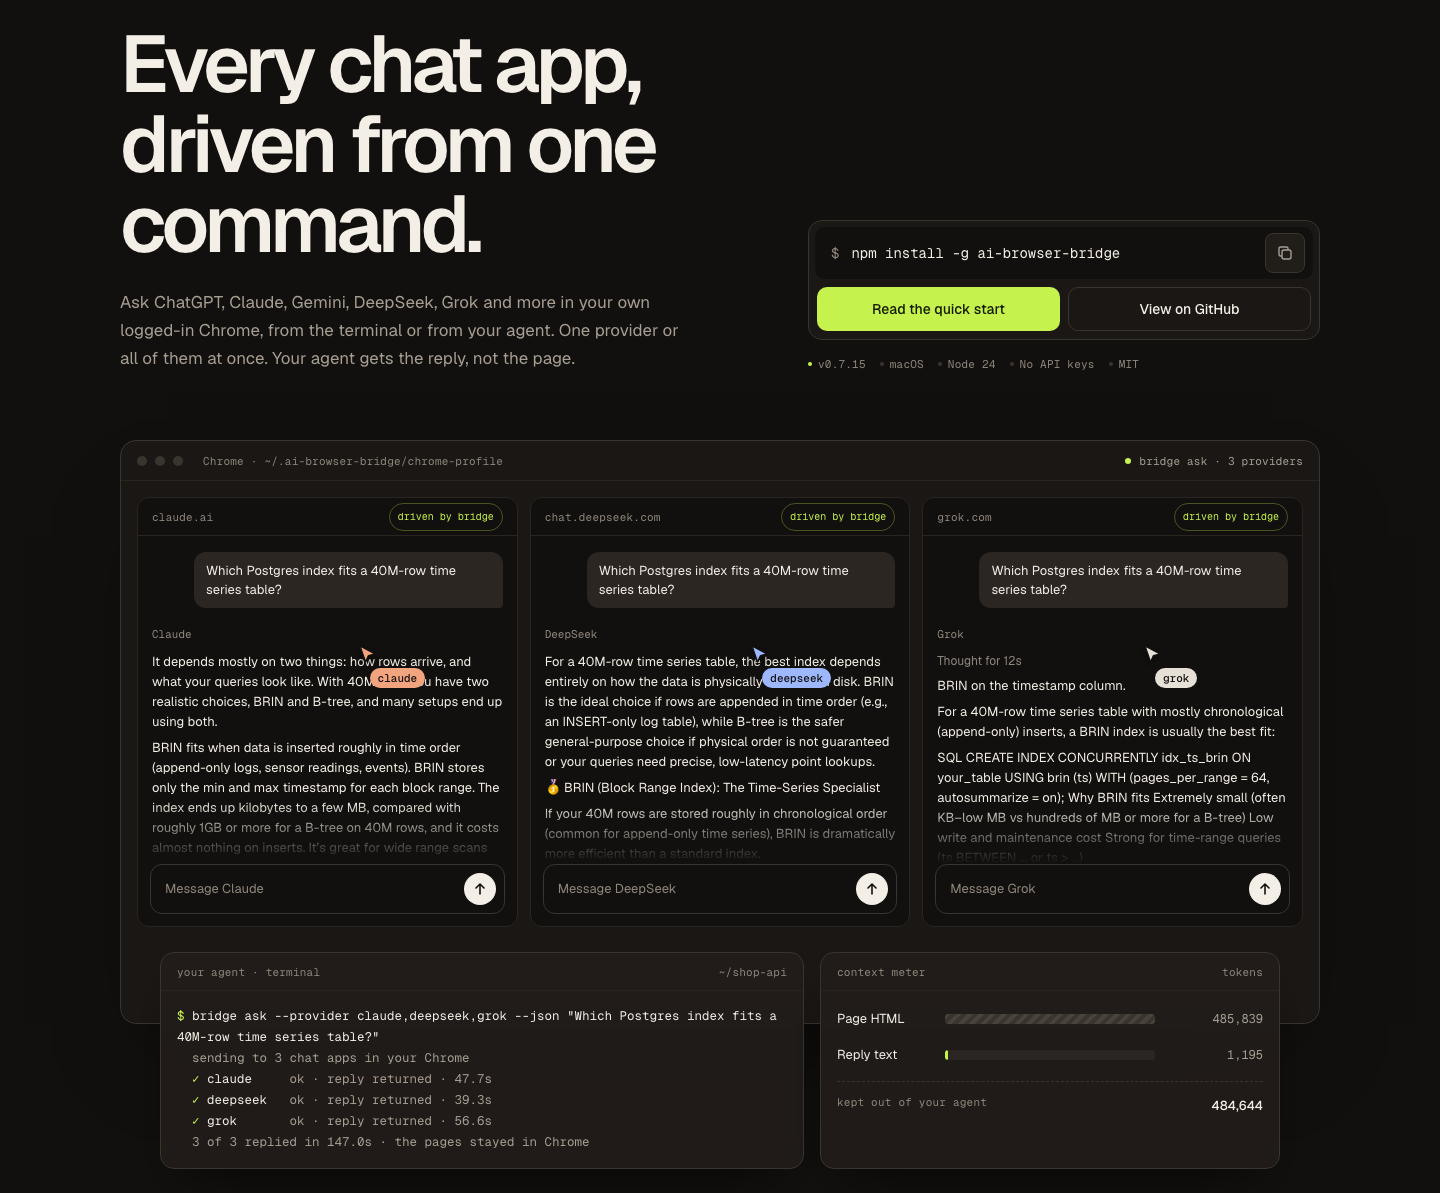
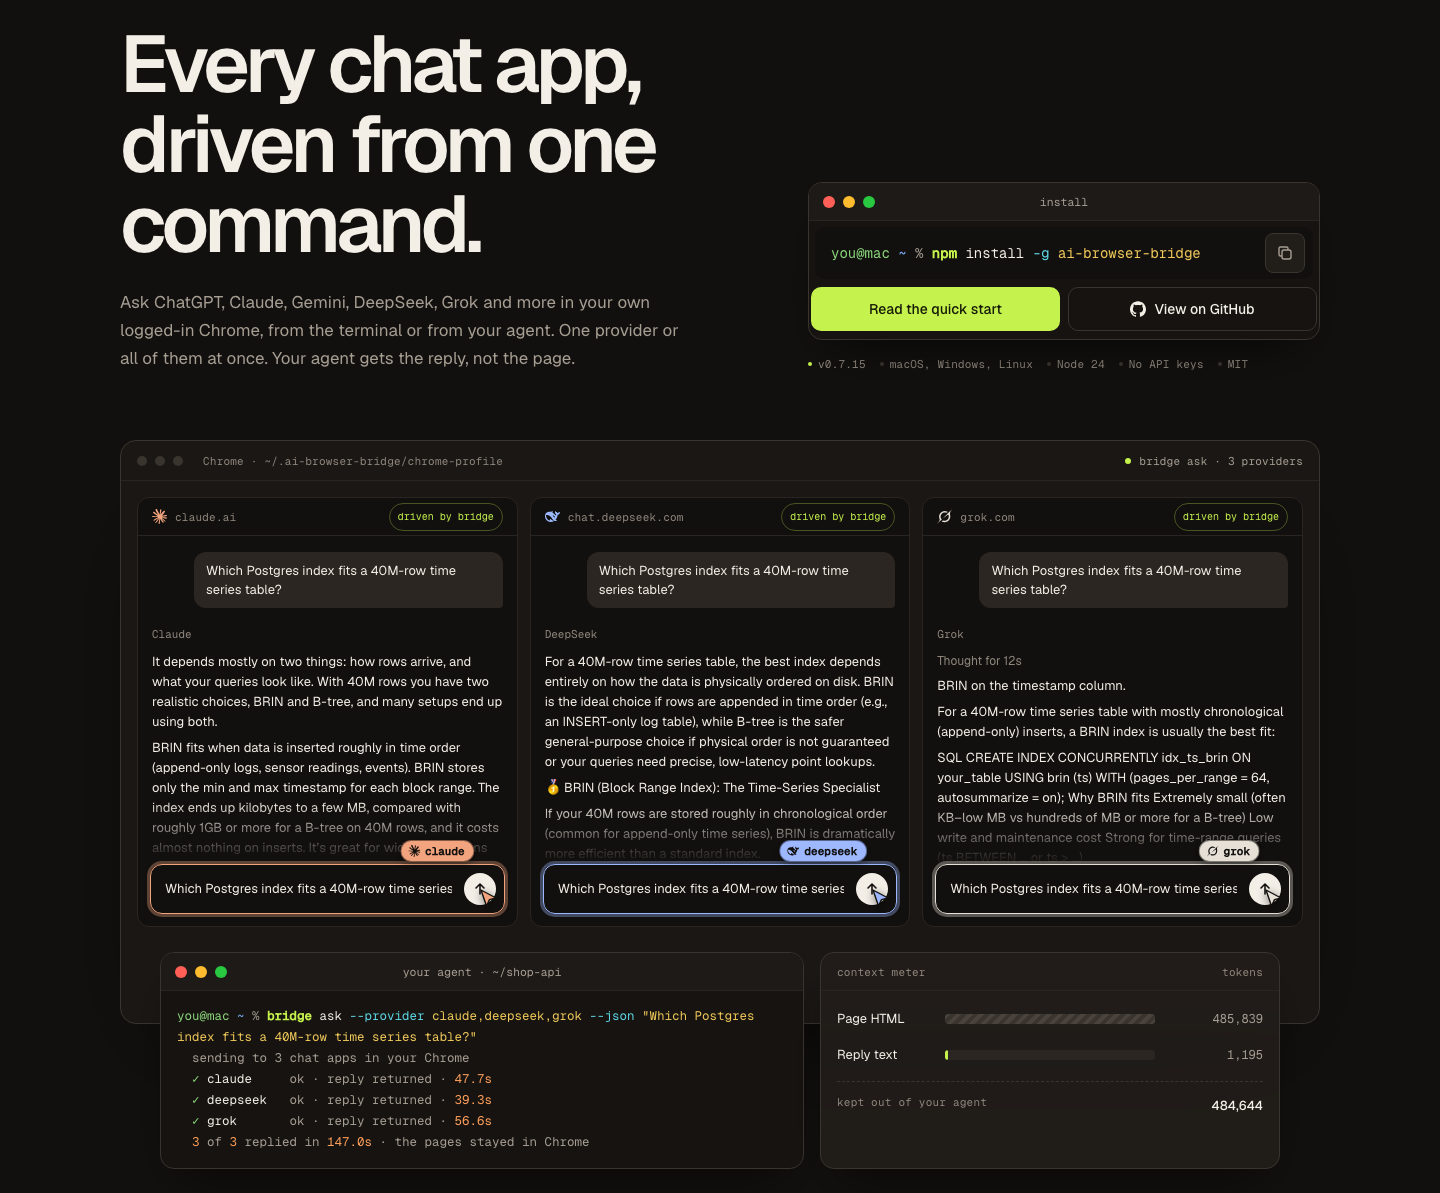
docs: say the CLI runs on macOS, Windows and Linux

diff --git a/site/landing/faq-list.tsx b/site/landing/faq-list.tsx
@@ -6,21 +6,21 @@ const QUESTIONS = [
   },
   {
     question: "What does it run on?",
-    answer: "macOS today, with Node 24 or newer and Google Chrome.",
+    answer: "macOS, Windows and Linux, with Node 24.11 or newer and Google Chrome.",
   },
   {
     question: "What if a chat app changes its page?",
     answer: "Each provider keeps its selectors in one browser layer, so a fix stays in one place.",
   },
   {
-    question: "Can a chat app run commands on my Mac?",
+    question: "Can a chat app run commands on my computer?",
     answer:
       "No. There is no shell. Repo tools are a fixed set, checked and kept inside the repo, under the permission mode you pick.",
   },
   {
     question: "Where is my data kept?",
     answer:
-      "On your Mac. The Chrome profile lives in ~/.ai-browser-bridge/chrome-profile and repo state in .bridge/ inside the repo.",
+      "On your computer. The Chrome profile lives in ~/.ai-browser-bridge/chrome-profile and repo state in .bridge/ inside the repo.",
   },
 ];
 

diff --git a/site/docs/usage-page.tsx b/site/docs/usage-page.tsx
@@ -59,11 +59,13 @@ export const UsagePage = ({ siteData }: UsagePageProps) => (
     <DocsSection title="Prerequisites">
       <ul>
         <li>
-          <strong>macOS</strong>: Chrome is launched with the macOS <code>open</code> command, and
-          clipboard/process helpers use <code>pbcopy</code>/<code>lsof</code>.
+          <strong>macOS, Windows or Linux</strong>. The bridge finds Chrome in the usual install
+          places; set <code>AI_BROWSER_BRIDGE_CHROME_PATH</code> to point it somewhere else. On
+          Linux, <code>/export</code> copies with <code>wl-copy</code>, <code>xclip</code> or{" "}
+          <code>xsel</code>, so install one of them.
         </li>
         <li>
-          <strong>Node.js 22 or newer</strong> and <strong>pnpm</strong> (the repo pins{" "}
+          <strong>Node.js 24.11 or newer</strong> and <strong>pnpm</strong> (the repo pins{" "}
           <code>pnpm@10.14.0</code>).
         </li>
         <li>

diff --git a/site/docs/limitations-page.tsx b/site/docs/limitations-page.tsx
@@ -13,8 +13,9 @@ export const LimitationsPage = ({ siteData }: LimitationsPageProps) => (
   >
     <ul>
       <li>
-        <strong>macOS-only</strong> today (<code>open</code>, <code>pbcopy</code>, and{" "}
-        <code>lsof</code> helpers).
+        On Linux, copying a transcript needs <code>wl-copy</code>, <code>xclip</code> or{" "}
+        <code>xsel</code>. Chrome in an unusual place needs{" "}
+        <code>AI_BROWSER_BRIDGE_CHROME_PATH</code>.
       </li>
       <li>
         ChatGPT and Gemini browser selectors can break when the web UI changes; fixes are localized

diff --git a/site/landing/hero-section.tsx b/site/landing/hero-section.tsx
@@ -41,7 +41,7 @@ export const HeroSection = ({ siteData }: HeroSectionProps) => {
             <InstallBox />
             <div class="hint label">
               <span>v{version}</span>
-              <span>macOS</span>
+              <span>macOS, Windows, Linux</span>
               <span>Node 24</span>
               <span>No API keys</span>
               <span>MIT</span>

diff --git a/README.md b/README.md
@@ -8,7 +8,7 @@ Site and docs: https://yosefhayim.github.io/ai-browser-bridge/
 
 ## Quick start
 
-Needs macOS, Node.js 22 or newer, pnpm and Google Chrome. Details are in the [usage guide](https://yosefhayim.github.io/ai-browser-bridge/docs/usage/).
+Runs on macOS, Windows and Linux. Needs Node.js 24.11 or newer, pnpm and Google Chrome. Details are in the [usage guide](https://yosefhayim.github.io/ai-browser-bridge/docs/usage/).
 
 ```bash
 git clone https://github.com/YosefHayim/ai-browser-bridge.git
